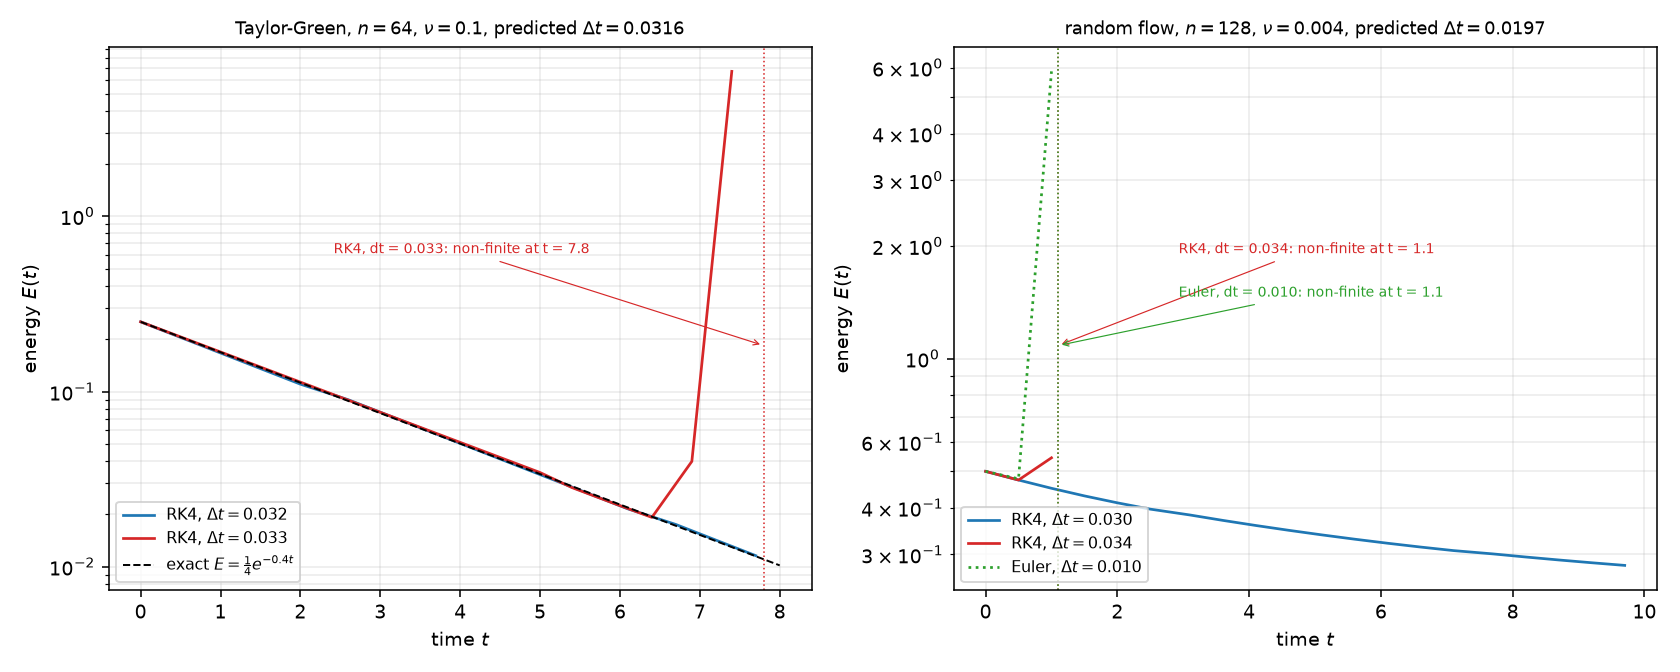
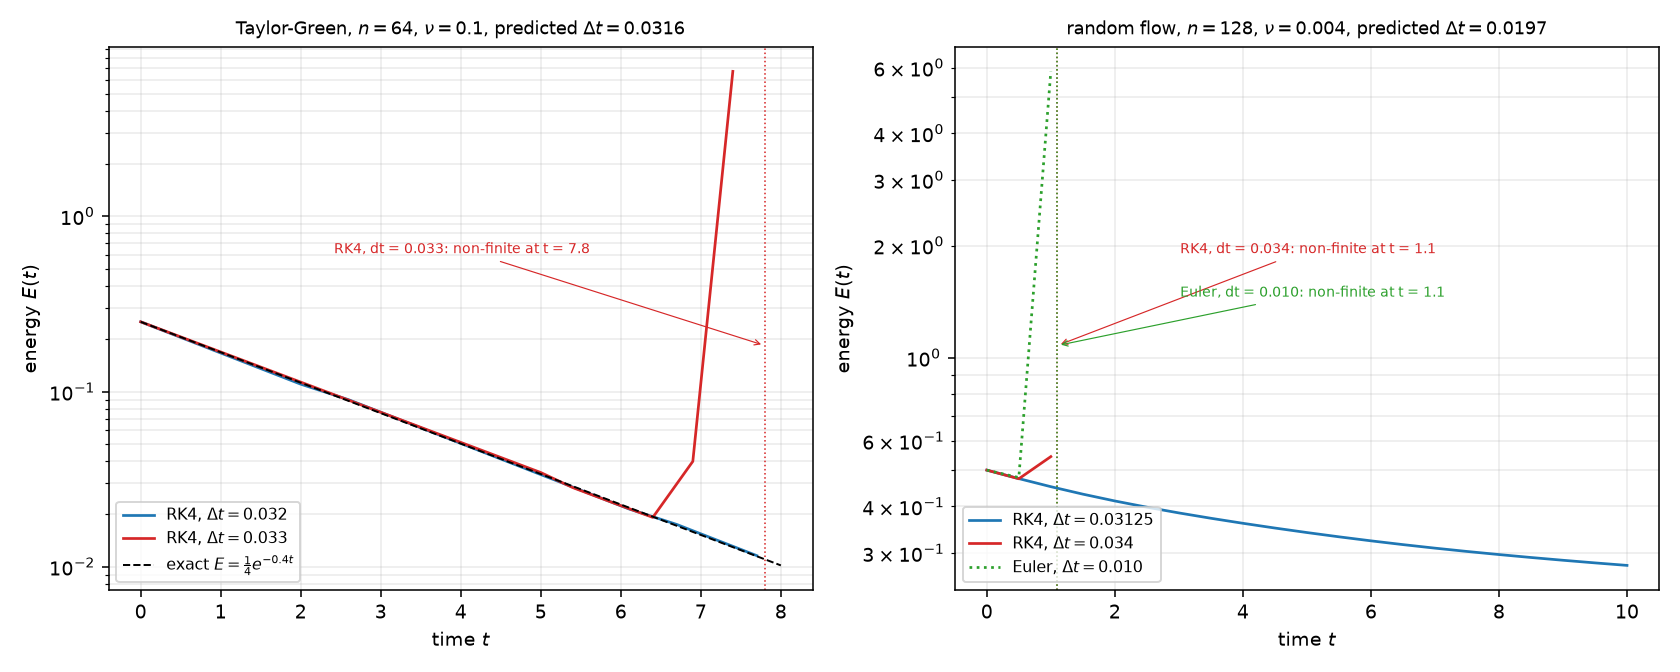
fix: add the gate entry point and correct the scan and stability figures
The published checker reads untracked raw artifacts, so a fresh clone had no
entry point: add week4/Makefile with `make reproduce`, which installs the
crate and writes exactly the runs the gate reads, honouring SEED as ${SEED:-2026}.

The random scan's stable run now uses dt = 0.03125, which lands a stored frame
on t = 10 as the sheet asks, and the stability map draws the two mode sets in
distinct colours so the inside/outside reading is legible in the figure itself.

diff --git a/week4/scripts/blowup.py b/week4/scripts/blowup.py
@@ -81,7 +81,7 @@ def main() -> None:
         ("RK4, $\\Delta t = 0.033$", scan / "tg-rk4-0.033.tsv", "C3", "-"),
     ]
     random = [
-        ("RK4, $\\Delta t = 0.030$", scan / "random-rk4-0.030.tsv", "C0", "-"),
+        ("RK4, $\\Delta t = 0.03125$", scan / "random-rk4-0.03125.tsv", "C0", "-"),
         ("RK4, $\\Delta t = 0.034$", scan / "random-rk4-0.034.tsv", "C3", "-"),
         ("Euler, $\\Delta t = 0.010$", scan / "random-euler-0.010.tsv", "C2", ":"),
     ]
@@ -104,6 +104,8 @@ def main() -> None:
     ):
         for label, path, color, style in series:
             times, energies, stopped = read_tsv(path)
+            if stopped is None:
+                print(f"{name}: {label} stored frames to t = {times[-1]:g}")
             axis.semilogy(times, energies, style, color=color, label=label, lw=1.4)
             if stopped is not None:
                 axis.axvline(stopped, color=color, ls=":", lw=0.8)

diff --git a/week4/scripts/line.py b/week4/scripts/line.py
@@ -97,18 +97,18 @@ def stability_figure(data: dict) -> plt.Figure:
         modes45[:, 0],
         modes45[:, 1],
         "o",
-        mfc="none",
-        mec="white",
-        ms=3.0,
+        mfc="white",
+        mec="black",
+        ms=3.4,
         label=r"modes, $\Delta t = 0.045$",
     )
     ax.plot(
         modes56[:, 0],
         modes56[:, 1],
         "s",
-        mfc="none",
+        mfc="black",
         mec="white",
-        ms=2.6,
+        ms=3.0,
         label=r"modes, $\Delta t = 0.056$",
     )
     ax.plot([], [], "k-", label=r"RK4, $|R|=1$")
